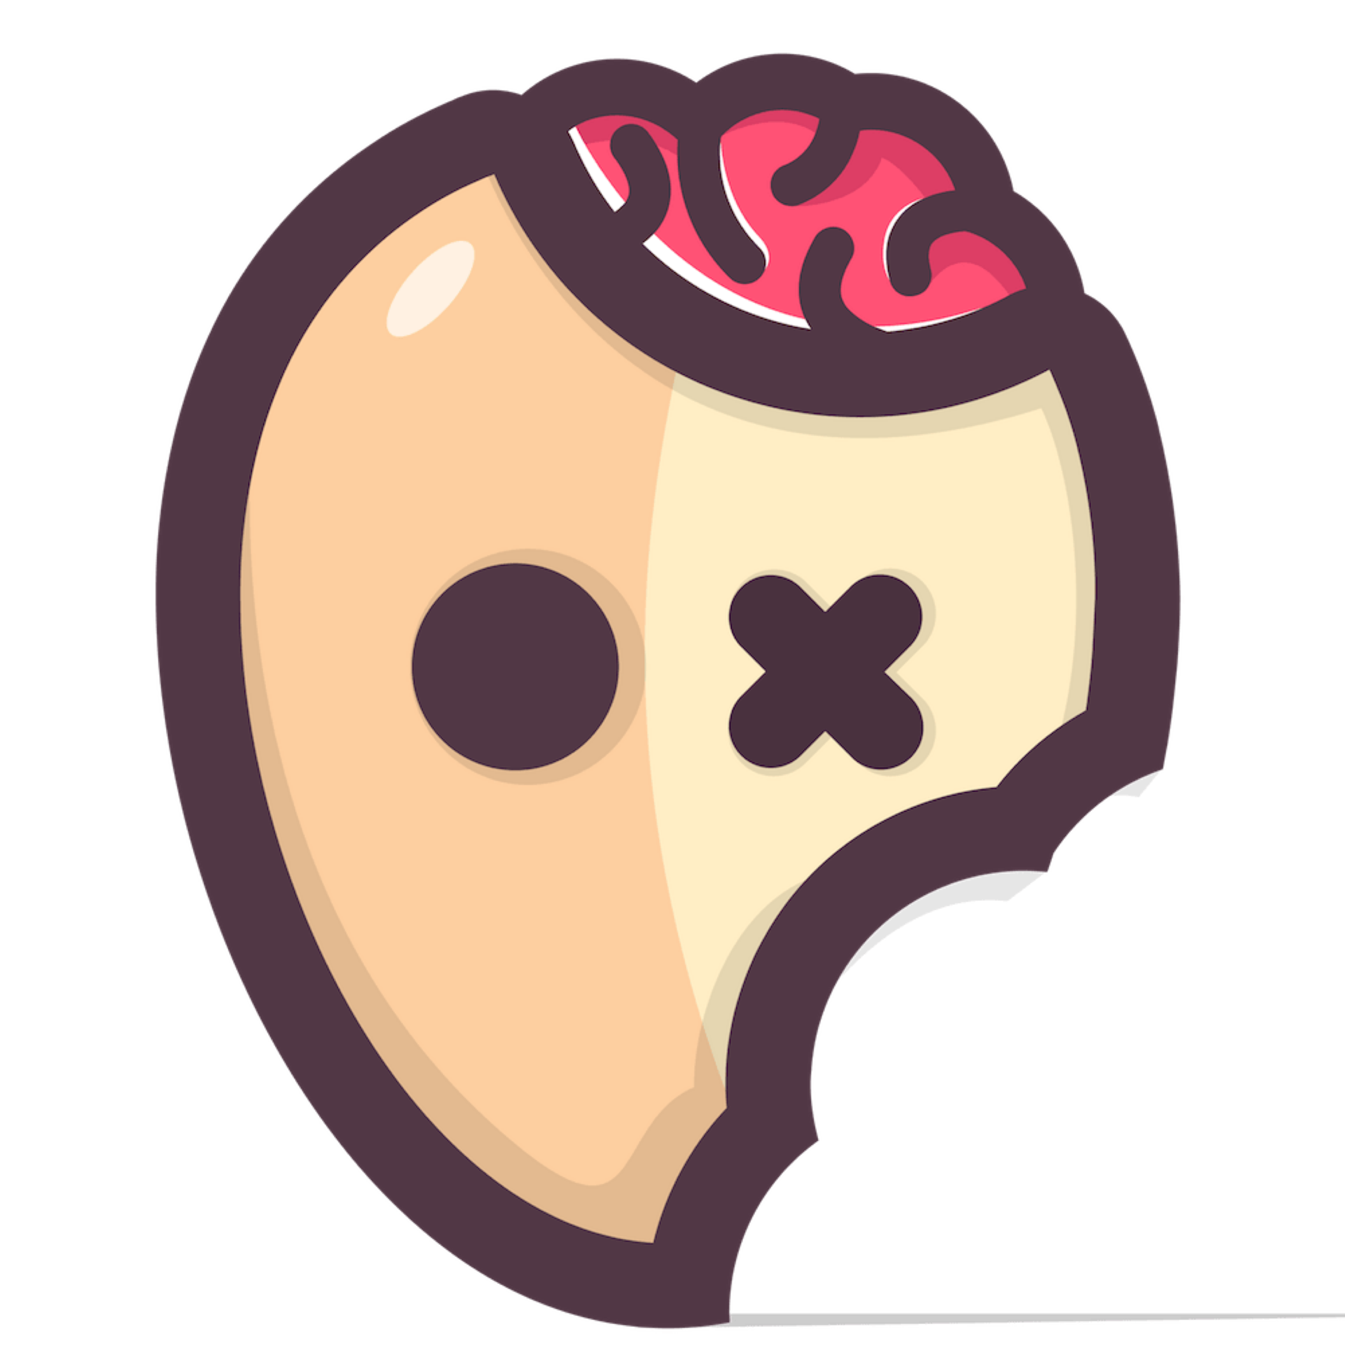
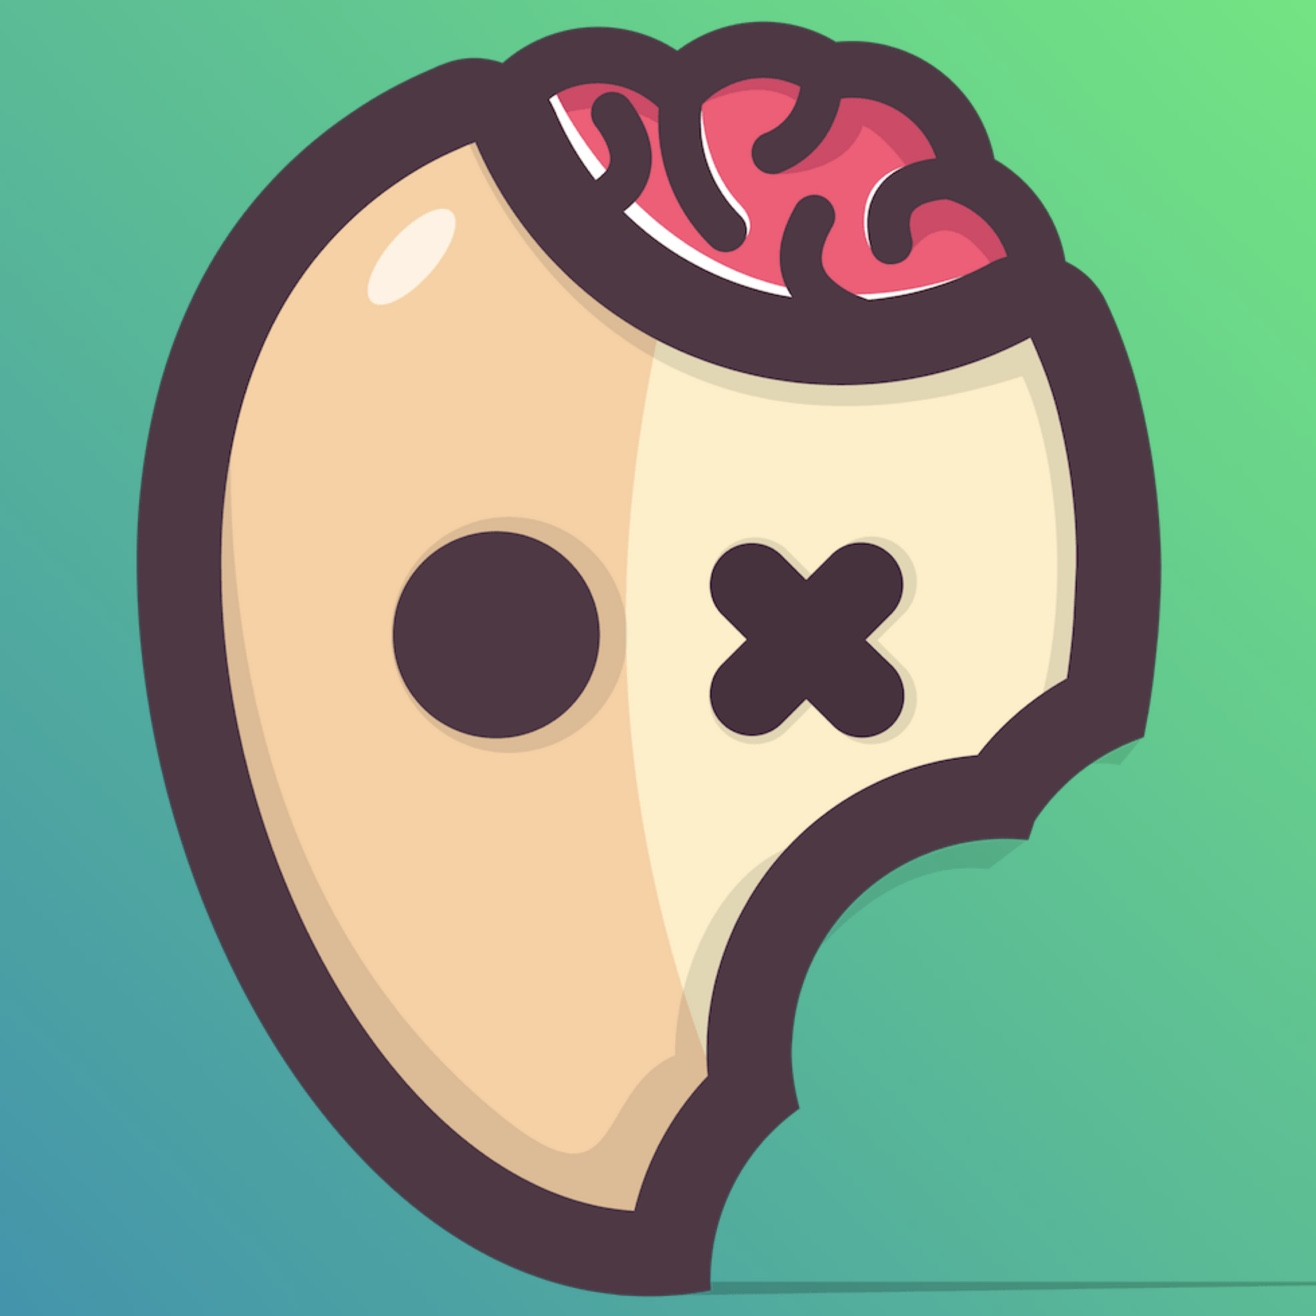
2020年02月13日

diff --git a/repo/index.html b/repo/index.html
@@ -18,7 +18,7 @@
 
 <header>
   <div class="intromsg">
-    <img src="CydiaIcon1.gif" width="310" id='repoIcon'/>
+    <img src="CydiaIcon2.png" width="310" id='repoIcon'/>
     <h1 class="repo">/ 鐺鐺鐺™源 /</h1>
     <h4 class="text-center"><strong>/ Repo By PAINCLOWN /</strong></h4>
     <div class="col-lg-8 col-lg-offset-2 text-center">
